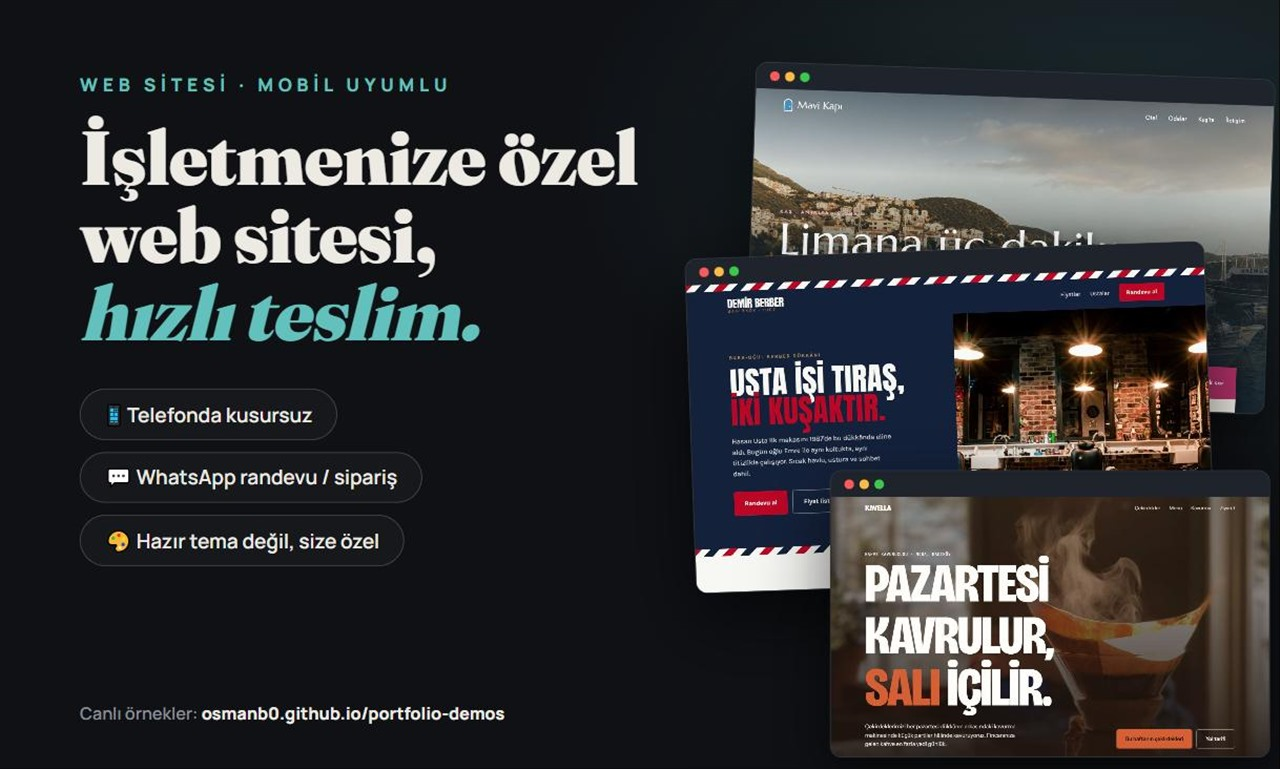
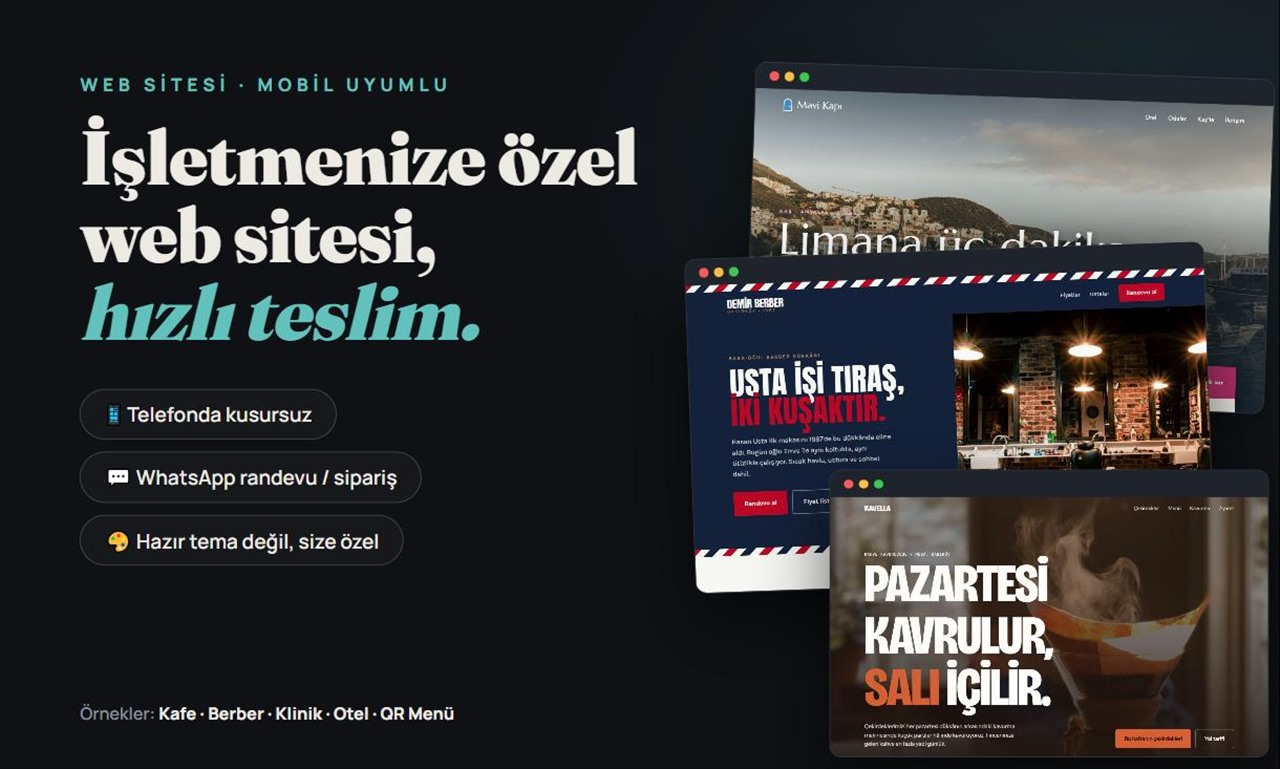
Kapaklardan dış site adresi kaldırıldı (Bionluk kuralı)
Claude-Session: https://claude.ai/code/session_011VeGA6ZtVzpdUpCxBEqWvR

diff --git a/kapak.html b/kapak.html
@@ -39,7 +39,7 @@ h1 em{font-style:italic;color:var(--acc)}
   <div class="eyebrow">Web Sitesi · Mobil Uyumlu</div>
   <h1>İşletmenize özel<br>web sitesi,<br><em>hızlı teslim.</em></h1>
   <div class="feat"><span>📱 Telefonda kusursuz</span><span>💬 WhatsApp randevu / sipariş</span><span>🎨 Hazır tema değil, size özel</span></div>
-  <div class="sign">Canlı örnekler: <b>osmanb0.github.io/portfolio-demos</b></div>
+  <div class="sign">Örnekler: <b>Kafe · Berber · Klinik · Otel · QR Menü</b></div>
   <div class="art">
     <div class="win" style="width:520px;left:70px;top:70px;transform:rotate(2deg)"><i></i><img src="img/demo-otel.jpg" alt=""></div>
     <div class="win" style="width:520px;left:10px;top:250px;z-index:2;transform:rotate(-2deg)"><i></i><img src="img/demo-berber.jpg" alt=""></div>
@@ -51,7 +51,7 @@ h1 em{font-style:italic;color:var(--acc)}
   <div class="eyebrow">WhatsApp Botu · Randevu &amp; Sipariş</div>
   <h1>Müşteriniz yazsın,<br><em>bot randevuyu<br>kaydetsin.</em></h1>
   <div class="feat"><span>📅 7/24 randevu alma</span><span>🔔 Otomatik hatırlatma</span><span>📊 İşletme paneli</span></div>
-  <div class="sign">Canlı demo: <b>osmanb0.github.io/portfolio-demos/whatsapp-bot</b></div>
+  <div class="sign">Canlı demo: <b>Portfolyomda deneyin</b></div>
   <div class="art">
     <div class="shot" style="width:570px;height:356px;left:0;top:200px"><img src="img/demo-whatsapp.jpg" alt="" style="object-position:left top"></div>
     <div class="badge" style="left:20px;top:140px">✅ Randevunuz oluşturuldu!</div>
